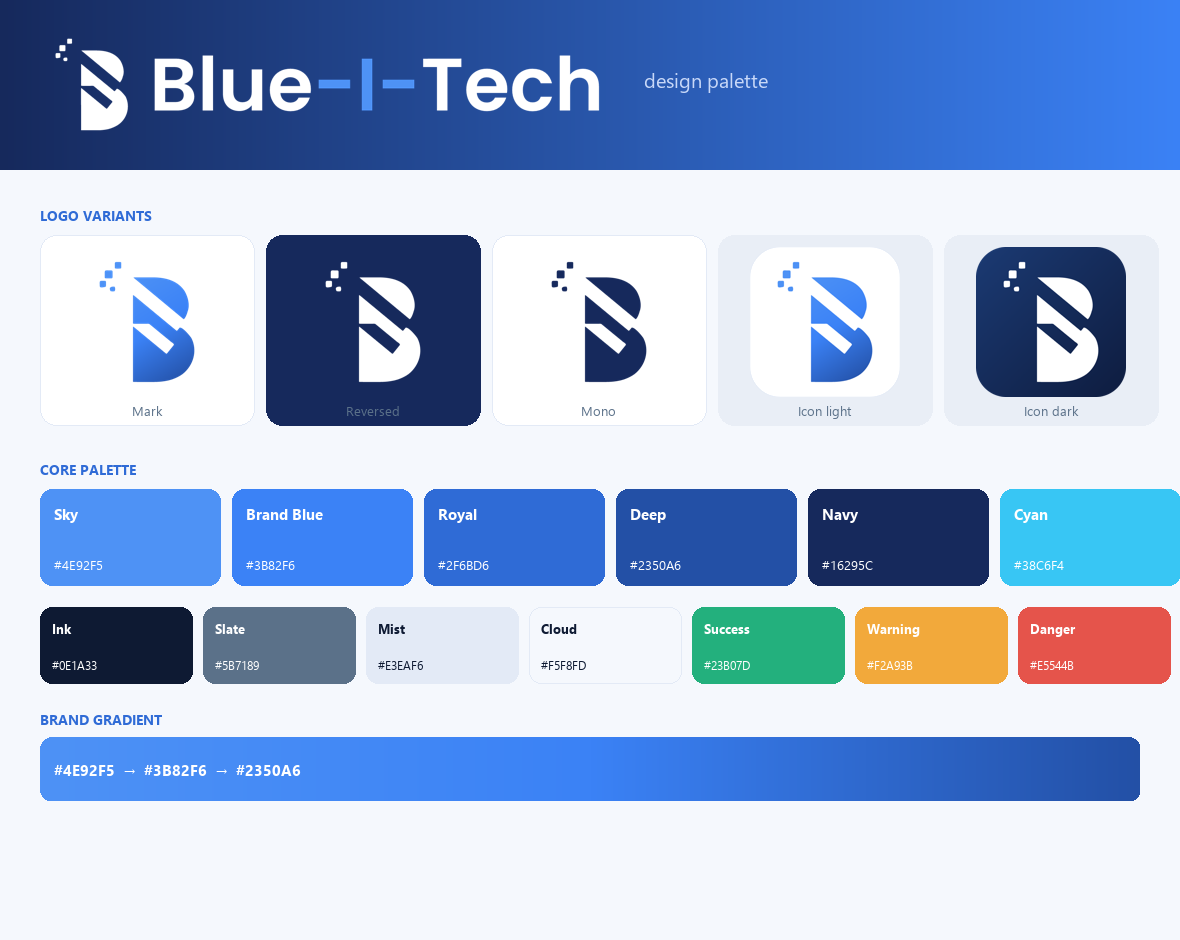
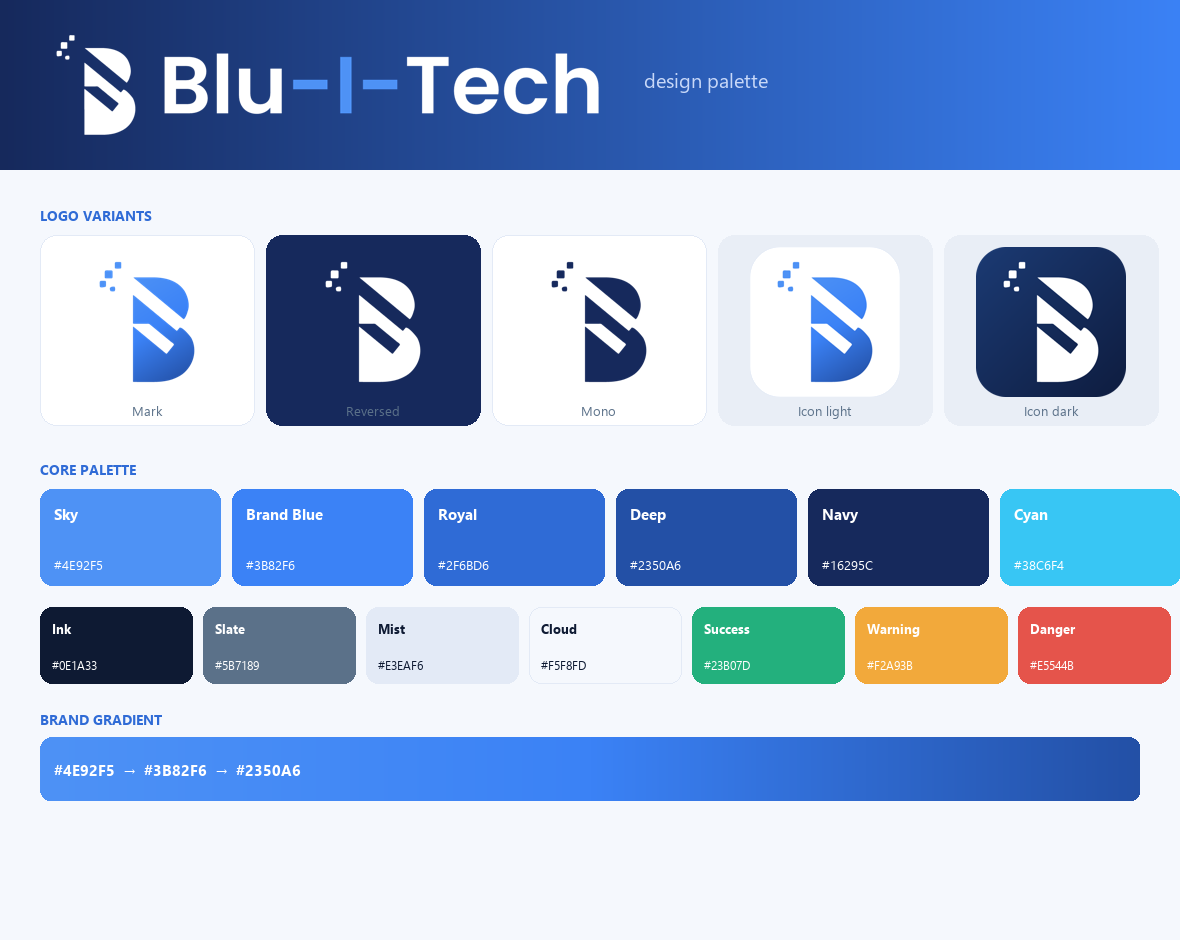
Rename brand: Blue-I-Tech -> Blu-I-Tech
Correct the company name (no 'e'). Re-outlined the wordmark and rebuilt all 8 lockups (horizontal & stacked, ±tagline, light + reversed) plus their PNG exports, updated aria-labels on the mark/icon/favicon SVGs, README, brand.html, index.html, palette.css/json, and regenerated brand-board.png.

Changed region(s): [[0.0305, 0.0309, 0.5186, 0.1543]]

diff --git a/brand.html b/brand.html
@@ -5,7 +5,7 @@
 <meta name="viewport" content="width=device-width, initial-scale=1">
 <link rel="icon" type="image/svg+xml" href="favicon.svg">
 <link rel="stylesheet" href="palette.css">
-<title>Blue-I-Tech — Brand & Palette</title>
+<title>Blu-I-Tech — Brand & Palette</title>
 <style>
   *{box-sizing:border-box}
   body{margin:0;font-family:'Segoe UI',Inter,system-ui,sans-serif;color:var(--bit-ink);background:var(--bit-cloud)}
@@ -56,8 +56,8 @@
 
 <header class="hero">
   <div class="wrap" style="margin:0 auto;max-width:1120px;padding:0 24px">
-    <img src="logo-mark.svg" alt="Blue-I-Tech mark">
-    <h1>Blue-I-Tech</h1>
+    <img src="logo-mark.svg" alt="Blu-I-Tech mark">
+    <h1>Blu-I-Tech</h1>
     <p>Technology. Built for business.</p>
   </div>
 </header>
@@ -66,22 +66,22 @@
 
   <section>
     <h2>Lockup with tagline</h2>
-    <div class="cell" style="min-height:120px;padding:30px 26px"><img src="horizontal-tagline.svg" alt="Blue-I-Tech with tagline" style="max-width:600px;max-height:none;width:100%"></div>
+    <div class="cell" style="min-height:120px;padding:30px 26px"><img src="horizontal-tagline.svg" alt="Blu-I-Tech with tagline" style="max-width:600px;max-height:none;width:100%"></div>
     <div class="cap" style="text-align:left">Full brand statement — mark + wordmark + “Technology. Built for business.”</div>
-    <div class="cell navy" style="min-height:120px;padding:30px 26px;margin-top:16px"><img src="horizontal-tagline-white.svg" alt="Blue-I-Tech with tagline, reversed" style="max-width:600px;max-height:none;width:100%"></div>
+    <div class="cell navy" style="min-height:120px;padding:30px 26px;margin-top:16px"><img src="horizontal-tagline-white.svg" alt="Blu-I-Tech with tagline, reversed" style="max-width:600px;max-height:none;width:100%"></div>
     <div class="cap" style="text-align:left">Reversed — for dark UI, navy panels and photography.</div>
     <div class="row" style="margin-top:16px">
-      <div style="flex:1 1 300px"><div class="cell" style="min-height:200px"><img src="stacked-tagline.svg" alt="Blue-I-Tech stacked with tagline" style="max-width:240px;max-height:none;width:100%"></div><div class="cap">Stacked with tagline</div></div>
-      <div style="flex:1 1 300px"><div class="cell navy" style="min-height:200px"><img src="stacked-tagline-white.svg" alt="Blue-I-Tech stacked with tagline, reversed" style="max-width:240px;max-height:none;width:100%"></div><div class="cap">Stacked with tagline — reversed</div></div>
+      <div style="flex:1 1 300px"><div class="cell" style="min-height:200px"><img src="stacked-tagline.svg" alt="Blu-I-Tech stacked with tagline" style="max-width:240px;max-height:none;width:100%"></div><div class="cap">Stacked with tagline</div></div>
+      <div style="flex:1 1 300px"><div class="cell navy" style="min-height:200px"><img src="stacked-tagline-white.svg" alt="Blu-I-Tech stacked with tagline, reversed" style="max-width:240px;max-height:none;width:100%"></div><div class="cap">Stacked with tagline — reversed</div></div>
     </div>
     <p class="note" style="margin-top:12px">Tagline set in <b>Poppins Medium</b> (outlined), in Slate, sized to span the wordmark width.</p>
   </section>
 
   <section>
     <h2>Primary lockup</h2>
-    <div class="cell" style="min-height:120px;padding:30px 26px"><img src="horizontal.svg" alt="Blue-I-Tech horizontal lockup" style="max-width:560px;max-height:none;width:100%"></div>
+    <div class="cell" style="min-height:120px;padding:30px 26px"><img src="horizontal.svg" alt="Blu-I-Tech horizontal lockup" style="max-width:560px;max-height:none;width:100%"></div>
     <div class="cap" style="text-align:left">Horizontal — mark + wordmark. Default for websites, headers, email signatures.</div>
-    <div class="cell navy" style="min-height:120px;padding:30px 26px;margin-top:16px"><img src="horizontal-white.svg" alt="Blue-I-Tech reversed lockup" style="max-width:560px;max-height:none;width:100%"></div>
+    <div class="cell navy" style="min-height:120px;padding:30px 26px;margin-top:16px"><img src="horizontal-white.svg" alt="Blu-I-Tech reversed lockup" style="max-width:560px;max-height:none;width:100%"></div>
     <div class="cap" style="text-align:left">Reversed — for dark UI, navy panels and photography.</div>
     <p class="note" style="margin-top:12px">Wordmark set in <b>Poppins SemiBold</b>, converted to outlined vector paths (no live font), with the central “-I-” in Brand Blue. <a href="https://openfontlicense.org/">SIL Open Font License</a> — free for commercial use.</p>
   </section>
@@ -90,11 +90,11 @@
     <h2>Stacked lockup</h2>
     <div class="row">
       <div style="flex:1 1 300px">
-        <div class="cell" style="min-height:230px"><img src="stacked.svg" alt="Blue-I-Tech stacked lockup" style="max-width:260px;max-height:none;width:100%"></div>
+        <div class="cell" style="min-height:230px"><img src="stacked.svg" alt="Blu-I-Tech stacked lockup" style="max-width:260px;max-height:none;width:100%"></div>
         <div class="cap">Stacked — social avatars, business cards, posters, centred spaces</div>
       </div>
       <div style="flex:1 1 300px">
-        <div class="cell navy" style="min-height:230px"><img src="stacked-white.svg" alt="Blue-I-Tech stacked reversed lockup" style="max-width:260px;max-height:none;width:100%"></div>
+        <div class="cell navy" style="min-height:230px"><img src="stacked-white.svg" alt="Blu-I-Tech stacked reversed lockup" style="max-width:260px;max-height:none;width:100%"></div>
         <div class="cap">Stacked reversed — for dark backgrounds</div>
       </div>
     </div>

diff --git a/index.html b/index.html
@@ -5,9 +5,9 @@
 <meta http-equiv="refresh" content="0; url=brand.html">
 <link rel="canonical" href="brand.html">
 <link rel="icon" type="image/svg+xml" href="favicon.svg">
-<title>Blue-I-Tech — Brand Kit</title>
+<title>Blu-I-Tech — Brand Kit</title>
 </head>
 <body>
-<p>Redirecting to the <a href="brand.html">Blue-I-Tech brand sheet</a>…</p>
+<p>Redirecting to the <a href="brand.html">Blu-I-Tech brand sheet</a>…</p>
 </body>
 </html>

diff --git a/palette.css b/palette.css
@@ -1,4 +1,4 @@
-/* Blue-I-Tech — Brand palette & design tokens
+/* Blu-I-Tech — Brand palette & design tokens
    Derived from the primary "B" mark. Import once, use everywhere. */
 
 :root {

diff --git a/README.md b/README.md
@@ -1,9 +1,9 @@
-<h1 align="center">Blue-I-Tech — Brand Kit</h1>
+<h1 align="center">Blu-I-Tech — Brand Kit</h1>
 
 <p align="center">
   <picture>
     <source media="(prefers-color-scheme: dark)" srcset="png/horizontal-tagline-white-1600.png">
-    <img alt="Blue-I-Tech — Technology. Built for business." src="png/horizontal-tagline-1600.png" width="500">
+    <img alt="Blu-I-Tech — Technology. Built for business." src="png/horizontal-tagline-1600.png" width="500">
   </picture>
 </p>
 
